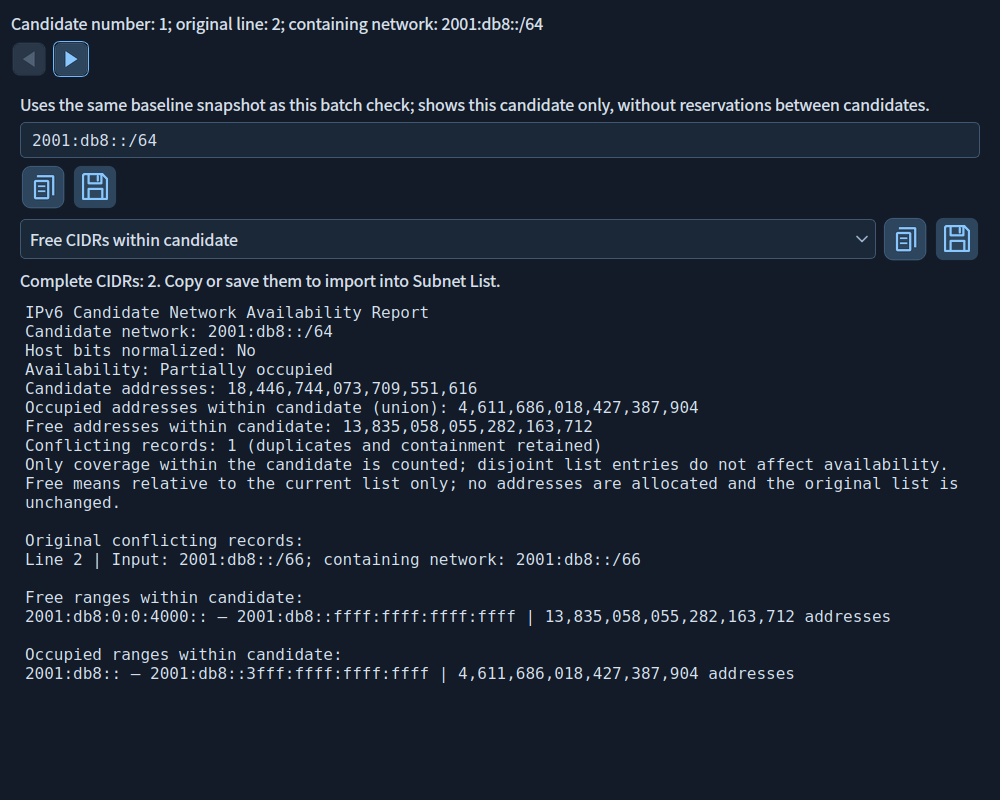
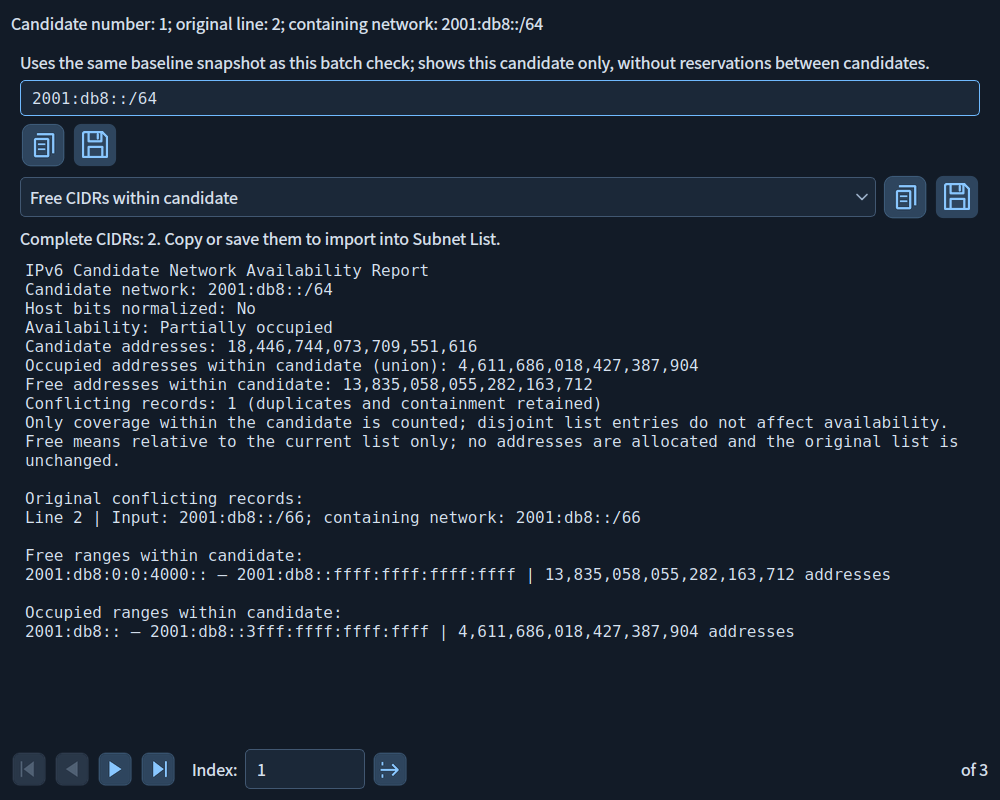
优化候选详情底部导航，整理最新版文档与历史更新入口

diff --git a/assets/i18n/app_en.ts b/assets/i18n/app_en.ts
@@ -3502,6 +3502,34 @@ Click a link to open your default browser; a network connection is used only whe
       <source>查看下一个候选详情</source>
       <translation>Next candidate details</translation>
     </message>
+    <message>
+      <source>查看第一个候选详情</source>
+      <translation>First candidate details</translation>
+    </message>
+    <message>
+      <source>查看最后一个候选详情</source>
+      <translation>Last candidate details</translation>
+    </message>
+    <message>
+      <source>序号：</source>
+      <translation>Index:</translation>
+    </message>
+    <message>
+      <source>输入候选序号后按 Enter 或点击跳转按钮。</source>
+      <translation>Enter a candidate number and press Enter or click Go.</translation>
+    </message>
+    <message>
+      <source>跳转到指定候选（Enter）</source>
+      <translation>Go to candidate (Enter)</translation>
+    </message>
+    <message>
+      <source>共 {0:,} 项</source>
+      <translation>of {0:,}</translation>
+    </message>
+    <message>
+      <source>候选序号须为 1～{0:,} 的整数。</source>
+      <translation>Candidate number must be an integer from 1 to {0:,}.</translation>
+    </message>
   </context>
   <context>
     <name>Export</name>

diff --git a/ui/list_inspection_dialog.py b/ui/list_inspection_dialog.py
@@ -16,6 +16,7 @@ from core.subnet_list import validate_list_text
 from ui.localized_widgets import QDialog, QLabel, QLineEdit, QPlainTextEdit, QTextBrowser, QTabWidget, QComboBox
 from ui.widgets import IconButton
 from ui.fonts import data_font
+from ui.input_feedback import bind_input, mark_invalid, clear_invalid
 
 
 class InspectionPanel(QWidget):
@@ -337,20 +338,41 @@ class BatchCandidateDialog(QDialog):
         self.heading = QLabel('')
         self.heading.setWordWrap(True)
         layout.addWidget(self.heading)
-        navigation = QHBoxLayout()
-        self.previous_button = IconButton('previous_small', tx('查看上一个候选详情'))
-        self.next_button = IconButton('next_small', tx('查看下一个候选详情'))
-        navigation.addWidget(self.previous_button)
-        navigation.addWidget(self.next_button)
-        navigation.addStretch()
-        layout.addLayout(navigation)
         self.panel = AvailabilityPanel(page, source)
         self.panel.hint.setText(tx('使用本次批量检查的同一基准快照；只查看当前候选，不计算候选之间的预留。'))
         self.panel.input.setReadOnly(True)
         self.panel.run_button.hide()
         layout.addWidget(self.panel, 1)
+        navigation = QHBoxLayout()
+        navigation.setSpacing(7)
+        self.first_button = IconButton('first_small', tx('查看第一个候选详情'))
+        self.previous_button = IconButton('previous_small', tx('查看上一个候选详情'))
+        self.next_button = IconButton('next_small', tx('查看下一个候选详情'))
+        self.last_button = IconButton('last_small', tx('查看最后一个候选详情'))
+        for button in (self.first_button, self.previous_button, self.next_button, self.last_button):
+            navigation.addWidget(button)
+        navigation.addSpacing(9)
+        navigation.addWidget(QLabel(tx('序号：')))
+        self.index_input = QLineEdit(str(ordinal))
+        bind_input(self.index_input)
+        self.index_input.setMaxLength(42)
+        self.index_input.setMinimumWidth(65)
+        self.index_input.setMaximumWidth(120)
+        self.index_input.setAccessibleName(tx('查看详情的候选序号'))
+        self.index_input.setToolTip(tx('输入候选序号后按 Enter 或点击跳转按钮。'))
+        navigation.addWidget(self.index_input, 1)
+        self.jump_button = IconButton('jump_small', tx('跳转到指定候选（Enter）'))
+        navigation.addWidget(self.jump_button)
+        navigation.addStretch()
+        self.count_label = QLabel(tx('共 {0:,} 项', len(self.batch_result.entries)))
+        navigation.addWidget(self.count_label)
+        layout.addLayout(navigation)
+        self.first_button.clicked.connect(lambda: self.go_to(1))
         self.previous_button.clicked.connect(lambda: self.navigate(-1))
         self.next_button.clicked.connect(lambda: self.navigate(1))
+        self.last_button.clicked.connect(lambda: self.go_to(len(self.batch_result.entries)))
+        self.jump_button.clicked.connect(self.jump)
+        self.index_input.returnPressed.connect(self.jump)
         self.show_candidate(record, ordinal)
 
     def show_candidate(self, record, ordinal):
@@ -362,14 +384,37 @@ class BatchCandidateDialog(QDialog):
         self.panel.input.setText(record.original)
         self.panel.category.setCurrentIndex(category)
         self.panel.run()
+        clear_invalid(self.index_input)
+        self.index_input.setText(str(ordinal))
+        self.first_button.setEnabled(ordinal > 1)
         self.previous_button.setEnabled(ordinal > 1)
         self.next_button.setEnabled(ordinal < len(self.batch_result.entries))
+        self.last_button.setEnabled(ordinal < len(self.batch_result.entries))
 
     def navigate(self, offset):
+        self.go_to(self.ordinal + offset)
+
+    def jump(self):
+        total = len(self.batch_result.entries)
+        try:
+            ordinal = int(self.index_input.text().strip())
+            if not 1 <= ordinal <= total:
+                raise ValueError
+        except ValueError:
+            mark_invalid(self.index_input, tx('候选序号须为 1～{0:,} 的整数。', total))
+            self.index_input.setFocus()
+            self.index_input.selectAll()
+            return
+        self.go_to(ordinal)
+
+    def go_to(self, ordinal):
         if self.owner.result is not self.batch_result or self.panel.result is None:
             return
-        ordinal = self.ordinal + offset
         if not 1 <= ordinal <= len(self.batch_result.entries):
+            return
+        if ordinal == self.ordinal:
+            clear_invalid(self.index_input)
+            self.index_input.setText(str(ordinal))
             return
         with QSignalBlocker(self.owner.detail_index):
             self.owner.detail_index.setValue(ordinal)

diff --git a/tests/test_batch_details.py b/tests/test_batch_details.py
@@ -125,6 +125,35 @@ class BatchDetailTests(unittest.TestCase):
             if language=='en_US':
                 self.assertNotRegex(d.heading.text()+d.previous_button.toolTip()+d.next_button.toolTip(),r'[\u4e00-\u9fff]')
 
+    def test_footer_first_last_jump_and_invalid_input_preserve_report(self):
+        p=self.prepare();batch=p.result;d=p.open_detail()
+        self.assertFalse(d.first_button.isEnabled());self.assertTrue(d.last_button.isEnabled())
+        d.last_button.click()
+        self.assertEqual((d.ordinal,p.detail_index.value(),d.index_input.text()),(3,3,'3'))
+        self.assertFalse(d.last_button.isEnabled());self.assertFalse(d.next_button.isEnabled())
+        d.first_button.click();self.assertEqual(d.ordinal,1)
+        d.index_input.setText('2');QTest.keyClick(d.index_input,Qt.Key.Key_Return)
+        self.assertEqual((d.ordinal,p.detail_index.value()),(2,2))
+        result=d.panel.result;report=d.panel.report.toPlainText()
+        for value in ('', '0', '-1', '4', '10000', '1.5', 'bad'):
+            d.index_input.setText(value);d.jump_button.click()
+            self.assertTrue(d.index_input.property('invalid'))
+            self.assertEqual(d.ordinal,2);self.assertIs(d.panel.result,result)
+            self.assertEqual(d.panel.report.toPlainText(),report)
+        d.index_input.setText(' 2 ');d.jump_button.click()
+        self.assertFalse(d.index_input.property('invalid'));self.assertEqual(d.index_input.text(),'2')
+        self.assertIs(d.panel.result,result);self.assertIs(p.result,batch)
+
+    def test_footer_jump_during_pending_save_rejects_old_duplicate_output(self):
+        p=self.prepare();d=p.open_detail()
+        def change(*args,**kwargs):
+            d.index_input.setText('3');d.jump_button.click()
+            return str(self.path),''
+        for save in (d.panel.save,d.panel.save_cidrs):
+            d.first_button.click()
+            with patch('ui.list_output_controller.QFileDialog.getSaveFileName',side_effect=change):save()
+            self.assertFalse(self.path.exists());self.assertEqual(d.ordinal,3)
+
     def test_full_and_empty_candidates_and_record_limit(self):
         p=self.d.batch_availability;p.source='::/0';p.input.setPlainText('::/0');p.run()
         d=p.open_detail();self.assertEqual(d.panel.result.occupied,((0,2**128-1),))
@@ -147,4 +176,12 @@ class BatchDetailTests(unittest.TestCase):
                 self.assertLessEqual(d.panel.save_cidrs_button.geometry().right(),d.panel.width())
                 self.assertLessEqual(p.detail_button.geometry().right(),p.width())
                 self.assertGreater(d.panel.report.height(),40)
+                self.assertGreaterEqual(d.previous_button.y(),d.panel.y()+d.panel.height())
+                for control in (d.first_button,d.last_button,d.index_input,d.jump_button,d.count_label):
+                    self.assertTrue(control.isVisible())
+                    self.assertLessEqual(control.geometry().right(),d.width())
+                d.panel.report.verticalScrollBar().setValue(d.panel.report.verticalScrollBar().maximum())
+                self.assertGreaterEqual(d.previous_button.y(),d.panel.y()+d.panel.height())
+                if language=='en_US':
+                    self.assertNotRegex(d.count_label.text()+d.index_input.toolTip()+d.first_button.toolTip()+d.last_button.toolTip()+d.jump_button.toolTip(),r'[\u4e00-\u9fff]')
         self.app.language_manager.apply('zh_CN',persist=False)

diff --git a/services/release_check.py b/services/release_check.py
@@ -312,6 +312,16 @@ class ReleaseCheck(QObject):
         self.require(detail.panel.result.network.prefixlen == 126, 'Batch detail candidate mismatch')
         self.require(detail.panel.result.occupied == ((0, 1),), 'Batch detail baseline mismatch')
         self.require(detail.panel.cidr_output.as_text() == '::2/127', 'Batch detail free CIDRs incorrect')
+        detail.last_button.click()
+        self.require(detail.ordinal == 3 and inspection.batch_availability.detail_index.value() == 3,
+                     'Batch detail last navigation did not synchronize')
+        self.require(not detail.last_button.isEnabled(), 'Last candidate allowed boundary navigation')
+        detail.first_button.click()
+        detail.index_input.setText('2')
+        detail.jump_button.click()
+        self.require(detail.ordinal == 2 and detail.panel.input.text() == '::4/126',
+                     'Batch detail index jump failed')
+        detail.first_button.click()
         inspection.batch_availability.detail_index.setValue(2)
         self.require(detail.panel.result is None, 'Changed candidate retained stale detail')
         self.checks.append('batch_candidate_details_snapshot_conflicts_and_invalidation')

diff --git a/docs/BATCH_DETAILS_EN.md b/docs/BATCH_DETAILS_EN.md
@@ -25,6 +25,9 @@ Changing candidate number, editing batch input or closing inspection clears old 
 | CIDR category | Free or occupied fragments inside the candidate | Free: `::2/128` |
 | CIDR copy/save | Complete minimal CIDRs for that category; disabled if empty or truncated | Save `IPv6_available_CIDRs.txt` |
 | Previous / Next | Browse in one window; boundaries disabled; retain CIDR category and synchronize the batch index | Next moves item 1 to item 2 |
+| First / Last | Bottom buttons go directly to either boundary, disabled at that boundary | Last goes to item 5,000 |
+| Index and Go | Enter 1 through the total and press Enter or click Go; invalid input preserves the report | Enter 3 for item 3 |
+| Total count | Counts all checked candidates, including duplicates | of 3 |
 | Close/Esc | Return without changing input or the baseline | Reopen with the locate icon |
 
 ![English batch candidate entry](screenshots/batch_categories_en_US_light.png)
@@ -35,4 +38,6 @@ Details explain conflicts with the baseline, not conflicts between candidates or
 
 The batch CIDR output category does not filter candidate numbers in the detail selector; all checked candidates remain available in input order.
 
-Use the Previous candidate details / Next candidate details icons at the top to browse in the same window and synchronize the batch-page index. The corresponding button is disabled at either boundary. Switching retains the free/occupied CIDR category, clears the old report and computes details for the current candidate. Duplicate candidates remain separate items, and switching during a save rejects the old output. For example, with `::3/126`, `::4/126`, `::3/126`, Next moves from item 1 to item 2 and then item 3, preserving the distinct physical lines of the duplicate entries.
+Use the Previous candidate details / Next candidate details icons in the fixed bottom navigation bar to browse in the same window and synchronize the batch-page index. The corresponding button is disabled at either boundary. Switching retains the free/occupied CIDR category, clears the old report and computes details for the current candidate. Duplicate candidates remain separate items, and switching during a save rejects the old output. For example, with `::3/126`, `::4/126`, `::3/126`, Next moves from item 1 to item 2 and then item 3, preserving the distinct physical lines of the duplicate entries.
+
+The bottom bar uses the same icon style as Subnet Results. First/Last moves to either boundary. Enter an index from 1 through the candidate count, then press Enter or click Go. For example, `3` opens item 3; the total count appears on the right. Invalid or out-of-range input is marked without changing the report. The bar stays below the report and does not scroll with it.

diff --git a/docs/BATCH_DETAILS.md b/docs/BATCH_DETAILS.md
@@ -25,6 +25,9 @@
 | CIDR 类别 | 仅选择候选内部空闲或占用的片段 | 空闲 `::2/128` |
 | CIDR 复制／保存 | 输出所选类别完整且最简的 CIDR，空或截断时禁用 | 保存 `IPv6_available_CIDRs.txt` |
 | 上一项／下一项 | 在同一详情窗口浏览，首末项禁用；保留 CIDR 类别并同步批量页序号 | 第 1 项点击下一项进入第 2 项 |
+| 首项／末项 | 底部跳转到第一个或最后一个候选，两端按钮按边界禁用 | 末项跳到第 5,000 项 |
+| 序号与跳转 | 输入 1～总数后按 Enter 或点击跳转；无效值保留当前报告 | 输入 3 跳到第 3 项 |
+| 总数 | 右侧显示本次候选条数，重复项分别计数 | 共 3 项 |
 | 关闭／Esc | 返回批量结果，不修改清单或候选 | 重新点击定位图标再次查看 |
 
 ![中文版批量候选入口](screenshots/batch_categories_zh_CN_light.png)
@@ -35,4 +38,6 @@
 
 批量页的 CIDR 输出类别不会筛选详情序号；详情始终可按输入顺序查看本次全部候选。
 
-详情顶部的“查看上一个候选详情”“查看下一个候选详情”图标可在同一窗口连续浏览，并同步批量页序号；到达第一项或最后一项时对应按钮禁用。切换时保留所选空闲／占用 CIDR 类别，但清除旧报告后重新生成当前候选详情。重复候选仍是独立项；保存期间切换候选会中止旧保存。例如候选为 `::3/126`、`::4/126`、`::3/126`，从第 1 项点击下一项到第 2 项，再点击下一项到第 3 项，重复项的原始行号仍分别保留。
+详情底部固定导航栏中的“查看上一个候选详情”“查看下一个候选详情”图标可在同一窗口连续浏览，并同步批量页序号；到达第一项或最后一项时对应按钮禁用。切换时保留所选空闲／占用 CIDR 类别，但清除旧报告后重新生成当前候选详情。重复候选仍是独立项；保存期间切换候选会中止旧保存。例如候选为 `::3/126`、`::4/126`、`::3/126`，从第 1 项点击下一项到第 2 项，再点击下一项到第 3 项，重复项的原始行号仍分别保留。
+
+底部导航与“子网结果”使用相同的图标样式：首项／末项可直接到达两端；序号框输入 1～当前候选总数后按 Enter 或点击跳转图标。例如输入 `3` 跳至第 3 项，右侧显示总数。无效或越界序号会在输入框提示，当前报告保留。导航栏固定在报告下方，不随报告滚动。

diff --git a/docs/about/USAGE_EN.md b/docs/about/USAGE_EN.md
@@ -167,7 +167,7 @@ Example: baseline `::/127` and `::3/128`, candidate `::3/126`. Its containing ne
 
 Changing candidate number, editing batch input or closing inspection clears old details and rejects pending stale saves. Closing details or pressing Esc preserves batch results; reopen with the icon. Close and reopen inspection to refresh its baseline snapshot.
 
-Use the Previous candidate details / Next candidate details icons at the top to browse in the same window and synchronize the batch-page index. The corresponding button is disabled at either boundary. Switching retains the free/occupied CIDR category, clears the old report and computes details for the current candidate. Duplicate candidates remain separate items, and switching during a save rejects the old output. For example, with `::3/126`, `::4/126`, `::3/126`, Next moves from item 1 to item 2 and then item 3, preserving the distinct physical lines of the duplicate entries.
+Use the Previous candidate details / Next candidate details icons in the fixed bottom navigation bar to browse in the same window and synchronize the batch-page index. The corresponding button is disabled at either boundary. Switching retains the free/occupied CIDR category, clears the old report and computes details for the current candidate. Duplicate candidates remain separate items, and switching during a save rejects the old output. For example, with `::3/126`, `::4/126`, `::3/126`, Next moves from item 1 to item 2 and then item 3, preserving the distinct physical lines of the duplicate entries.
 
 ## Import batch candidates
 
@@ -180,3 +180,5 @@ Example: import a TXT containing `# candidates`, `::3/126` and `::4/126`. The ba
 Only ordinary files are imported. Devices and pipes are rejected; retry after writing finishes if a file changes or is replaced during reading. Ordinary files on network shares may still be delayed by networking or filesystem behavior; this policy does not provide network access timeouts.
 
 The planning JSON container is limited to 7 MiB to allow JSON escaping; its imported list still has the 1 MiB UTF-8 text limit.
+
+The bottom bar uses the same icon style as Subnet Results. First/Last moves to either boundary. Enter an index from 1 through the candidate count, then press Enter or click Go. For example, `3` opens item 3; the total count appears on the right. Invalid or out-of-range input is marked without changing the report. The bar stays below the report and does not scroll with it.

diff --git a/docs/about/USAGE.md b/docs/about/USAGE.md
@@ -205,7 +205,7 @@ IPv6 没有广播地址，“结束地址”表示网段末地址；数学地址
 
 切换候选序号、修改批量输入或关闭查询窗口会关闭并清空旧详情；保存对话框期间发生这些变化会拒绝保存旧结果。详情关闭或 Esc 返回不影响原批量结果，重新点击图标可再次查看。需要刷新基准时关闭查询窗口后重开。
 
-详情顶部的“查看上一个候选详情”“查看下一个候选详情”图标可在同一窗口连续浏览，并同步批量页序号；到达第一项或最后一项时对应按钮禁用。切换时保留所选空闲／占用 CIDR 类别，但清除旧报告后重新生成当前候选详情。重复候选仍是独立项；保存期间切换候选会中止旧保存。例如候选为 `::3/126`、`::4/126`、`::3/126`，从第 1 项点击下一项到第 2 项，再点击下一项到第 3 项，重复项的原始行号仍分别保留。
+详情底部固定导航栏中的“查看上一个候选详情”“查看下一个候选详情”图标可在同一窗口连续浏览，并同步批量页序号；到达第一项或最后一项时对应按钮禁用。切换时保留所选空闲／占用 CIDR 类别，但清除旧报告后重新生成当前候选详情。重复候选仍是独立项；保存期间切换候选会中止旧保存。例如候选为 `::3/126`、`::4/126`、`::3/126`，从第 1 项点击下一项到第 2 项，再点击下一项到第 3 项，重复项的原始行号仍分别保留。
 
 ## 导入批量候选
 
@@ -218,3 +218,5 @@ IPv6 没有广播地址，“结束地址”表示网段末地址；数学地址
 导入只接受普通文件。设备、管道等特殊文件会被拒绝；读取期间文件被改写或替换时请等待写入完成后重试。网络共享中的普通文件仍可能受网络或文件系统延迟影响，本限制不提供网络访问超时保证。
 
 规划 JSON 容器上限为 7 MiB，用于容纳 JSON 转义；其中导入的清单文本仍受 1 MiB UTF-8 上限限制。
+
+底部导航与“子网结果”使用相同的图标样式：首项／末项可直接到达两端；序号框输入 1～当前候选总数后按 Enter 或点击跳转图标。例如输入 `3` 跳至第 3 项，右侧显示总数。无效或越界序号会在输入框提示，当前报告保留。导航栏固定在报告下方，不随报告滚动。

diff --git a/docs/DEVELOPMENT.md b/docs/DEVELOPMENT.md
@@ -2,7 +2,7 @@
 
 ## V1.20 候选详情连续浏览与文档整理
 
-- 批量候选详情新增上一项／下一项按钮，在同一窗口按输入顺序连续查看，自动同步批量页候选序号。
+- 批量候选详情采用与“子网结果”一致的底部固定导航栏，提供首项、上一项、下一项、末项、序号跳转与总数；自动同步批量页候选序号。
 - 保留重复候选及原始行号，沿用同一基准快照与所选内部 CIDR 类别；首末项禁用越界按钮。
 - 切换详情立即清除旧结果，保存期间切换候选时拒绝旧输出；不修改基准清单或批量检查结果。
 - 首页与关于窗口仅展示当前版本更新，旧版本归入“历史更新”；关于窗口的历史与返回链接均可离线使用。
@@ -10,7 +10,7 @@
 
 ## V1.20 Continuous Candidate Details and Documentation Cleanup
 
-- Batch candidate details add previous/next buttons to browse in input order in the same window, synchronizing the candidate number on the batch page.
+- Batch candidate details use a fixed bottom navigation bar matching Subnet Results: first, previous, next, last, index jump and total count, synchronized with the batch-page candidate number.
 - Retains duplicate candidates, physical line numbers, the baseline snapshot and the selected internal CIDR category; boundary buttons are disabled.
 - Switching details clears old results and rejects pending saves of the previous candidate, without changing the baseline list or batch results.
 - Home pages and About show only the current release. Earlier releases move to Update History, with offline history/return links in About.

diff --git a/docs/RELEASE_NOTES.md b/docs/RELEASE_NOTES.md
@@ -2,7 +2,7 @@
 
 ## V1.20 候选详情连续浏览与文档整理
 
-- 批量候选详情新增上一项／下一项按钮，在同一窗口按输入顺序连续查看，自动同步批量页候选序号。
+- 批量候选详情采用与“子网结果”一致的底部固定导航栏，提供首项、上一项、下一项、末项、序号跳转与总数；自动同步批量页候选序号。
 - 保留重复候选及原始行号，沿用同一基准快照与所选内部 CIDR 类别；首末项禁用越界按钮。
 - 切换详情立即清除旧结果，保存期间切换候选时拒绝旧输出；不修改基准清单或批量检查结果。
 - 首页与关于窗口仅展示当前版本更新，旧版本归入“历史更新”；关于窗口的历史与返回链接均可离线使用。
@@ -12,7 +12,7 @@
 
 ## V1.20 Continuous Candidate Details and Documentation Cleanup
 
-- Batch candidate details add previous/next buttons to browse in input order in the same window, synchronizing the candidate number on the batch page.
+- Batch candidate details use a fixed bottom navigation bar matching Subnet Results: first, previous, next, last, index jump and total count, synchronized with the batch-page candidate number.
 - Retains duplicate candidates, physical line numbers, the baseline snapshot and the selected internal CIDR category; boundary buttons are disabled.
 - Switching details clears old results and rejects pending saves of the previous candidate, without changing the baseline list or batch results.
 - Home pages and About show only the current release. Earlier releases move to Update History, with offline history/return links in About.

diff --git a/docs/WINDOWS_ACCEPTANCE.md b/docs/WINDOWS_ACCEPTANCE.md
@@ -1,6 +1,6 @@
 ## V1.20 新增操作验收 / New operation checks
 
-1. 批量检查三项（含重复项），在详情中连续前后浏览，检查序号、原始行号、首末禁用和 CIDR 类别保持。/ Browse three candidates including duplicates; verify index, source lines, boundaries and retained CIDR category.
+1. 批量检查三项（含重复项），在详情底部通过首项、前后项、末项及序号跳转浏览，检查总数、原始行号、边界禁用和 CIDR 类别保持；无效序号保留当前报告。/ Browse three candidates including duplicates using the bottom First/Previous/Next/Last buttons and index jump; verify count, source lines, boundaries and retained CIDR category. Invalid indices retain the current report.
 2. 保存期间切换详情，确认不写入旧输出；修改候选后旧详情失效。/ Switch during saving to reject stale output; editing candidates invalidates details.
 3. 关于窗口从最新版进入历史更新并返回；离线切换中英文、浅深主题，确认标题居中和链接正常。/ Navigate current notes/history offline; switch languages and themes and verify centered titles and links.
 

diff --git a/README_EN.md b/README_EN.md
@@ -4,7 +4,7 @@
 
 ## V1.20 Continuous Candidate Details and Documentation Cleanup
 
-- Batch candidate details add previous/next buttons to browse in input order in the same window, synchronizing the candidate number on the batch page.
+- Batch candidate details use a fixed bottom navigation bar matching Subnet Results: first, previous, next, last, index jump and total count, synchronized with the batch-page candidate number.
 - Retains duplicate candidates, physical line numbers, the baseline snapshot and the selected internal CIDR category; boundary buttons are disabled.
 - Switching details clears old results and rejects pending saves of the previous candidate, without changing the baseline list or batch results.
 - Home pages and About show only the current release. Earlier releases move to Update History, with offline history/return links in About.
@@ -13,8 +13,6 @@
 [Update History](docs/HISTORY_EN.md)
 
 ![Candidate details with continuous navigation](docs/screenshots/batch_detail_en_US_light.png)
-
-![Current release notes and Update History](docs/screenshots/about_release_en_US_dark.png)
 
 ## 📖 Overview
 
